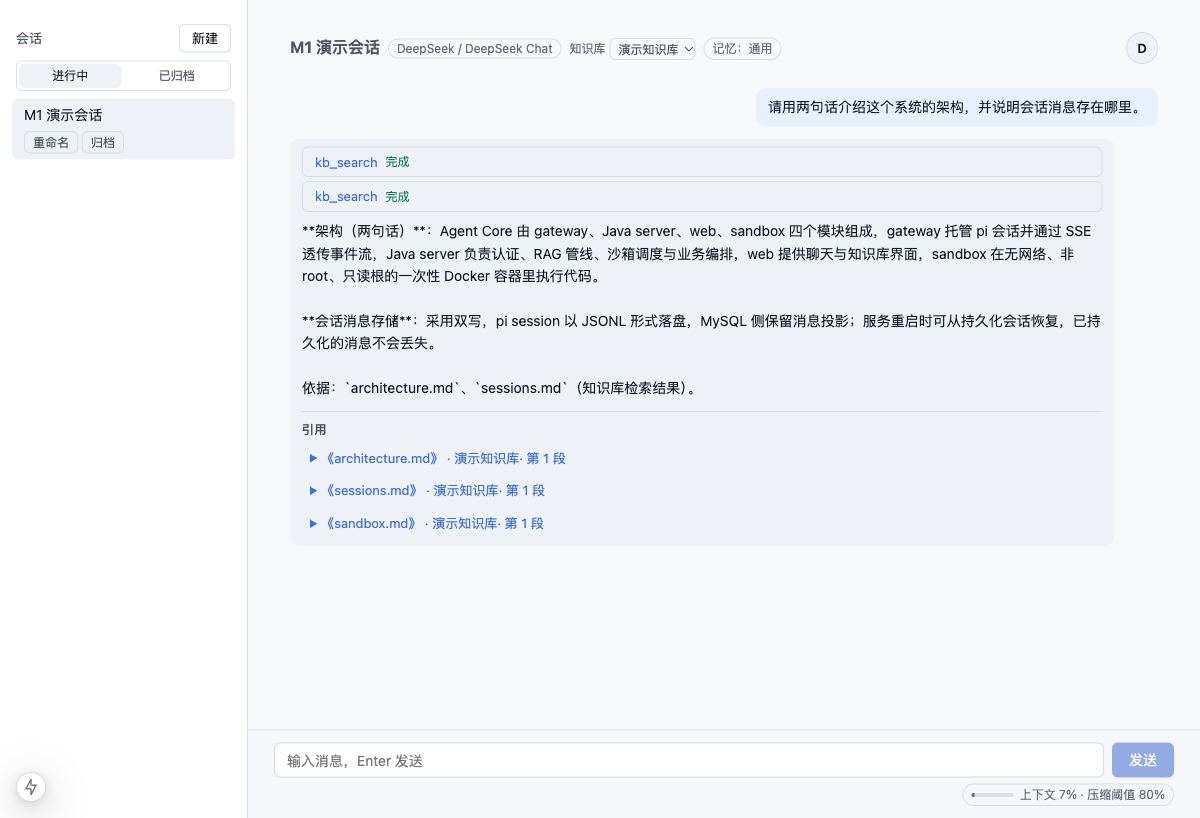
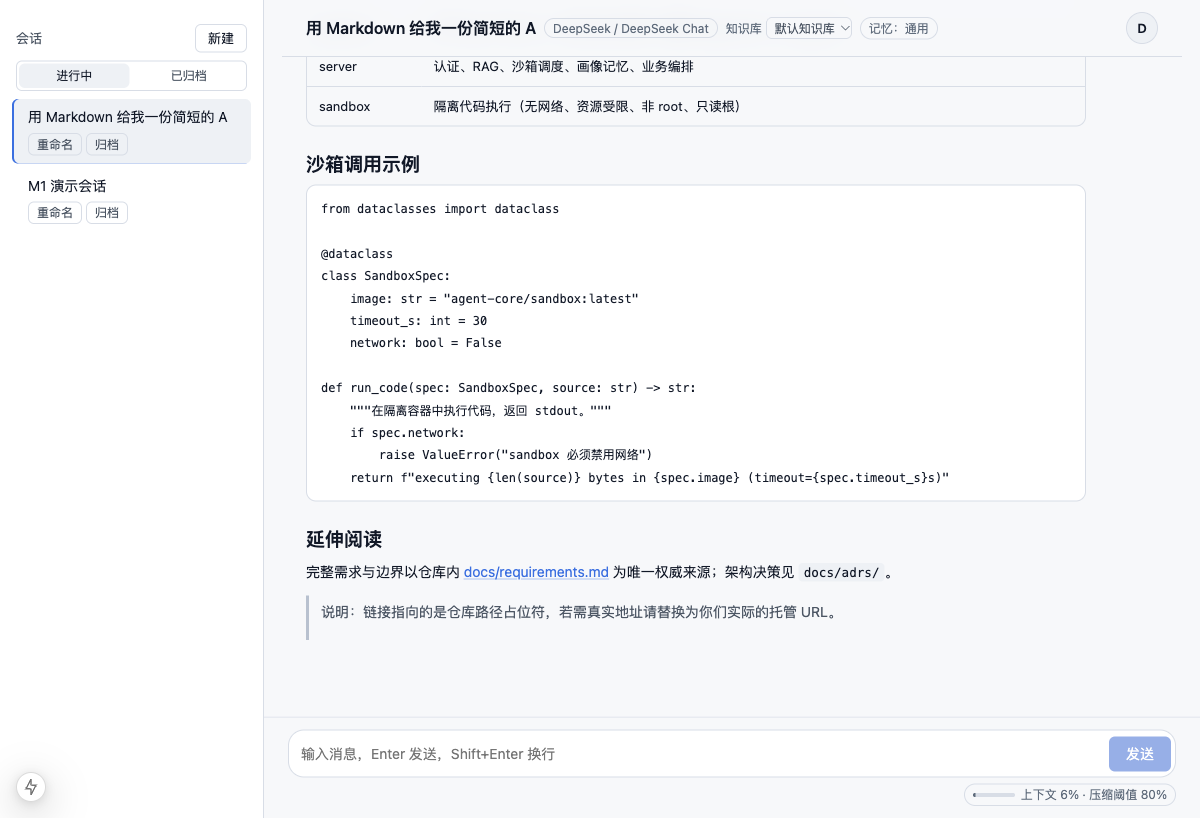
docs: record chat markdown rendering and layout refresh

diff --git a/docs/specs/2026-10-25-chat-markdown-ui.md b/docs/specs/2026-10-25-chat-markdown-ui.md
@@ -1,0 +1,57 @@
+# 聊天界面 Markdown 渲染与排版优化
+
+日期：2026-10-25
+状态：已与用户对齐（Phase 1 完成），待实现
+关联：ADR-0012（设计 token / 对比度门禁）；`web/README.md`（分层规范）
+
+## Problem Statement
+
+助手回复目前以纯文本渲染：Markdown 语法（标题、列表、代码块、表格、链接）原样显示，长回复可读性差；聊天主区的气泡、间距、工具卡片、引用与输入区排版偏拥挤、层级不清，整体观感不像一个成熟产品。用户希望优化排版，并让助手输出正确渲染 Markdown。
+
+## Solution
+
+- 助手消息用 Markdown 渲染（GFM：表格、任务列表、删除线、自动链接），流式过程中实时渲染；用户消息保持纯文本并保留换行。
+- 重做聊天主区视觉：sticky 顶栏、助手消息去气泡化、用户气泡右侧、统一消息间距与字号、工具/引用卡片化、空状态与输入区（自动增高多行输入、Enter 发送 / Shift+Enter 换行）。
+- 只使用现有语义 token，保持深/浅色主题与对比度门禁通过；不引入语法高亮（后续可加）。
+
+## User Stories
+
+1. 作为用户，我希望助手回复中的标题、列表、代码块、表格、链接正确排版，以便快速阅读。
+2. 作为用户，我希望流式输出期间也能看到接近最终的排版，而不是先看到一堆 `**` 和 `-`。
+3. 作为用户，我希望长回复有舒适的行宽、行高与段落间距。
+4. 作为用户，我希望代码块有独立背景、横向滚动与一键复制。
+5. 作为用户，我希望工具调用与引用以紧凑卡片呈现，不打断正文阅读。
+6. 作为用户，我希望输入框支持多行（Shift+Enter 换行），并随内容自动增高。
+7. 作为用户，我希望发送/停止按钮与输入区对齐、聚焦态清晰。
+8. 作为用户，我希望深色/浅色主题下 Markdown 与卡片都有足够对比度。
+9. 作为用户，我希望移动端侧边栏折叠后聊天区仍有合理留白与可读行宽。
+10. 作为维护者，我希望新增依赖精确锁定、样式只用语义 token，并通过现有 token/对比度门禁。
+
+## Implementation Decisions
+
+- 新增 `react-markdown@10.1.0` 与 `remark-gfm@4.0.1`（精确版本）。默认不解析原始 HTML（不引入 `rehype-raw`），链接强制 `target="_blank" rel="noopener noreferrer"`。
+- 仅助手消息走 Markdown；用户消息保持 `white-space: pre-wrap` 纯文本，避免用户输入的多行被折叠。
+- 流式期间实时渲染（react-markdown 对未闭合语法容错）；流式末尾显示光标。
+- 代码块：`pre` 自定义渲染，等宽字体、独立背景、横向滚动、复制按钮（`navigator.clipboard`，失败静默）；不做语法高亮。
+- 表格：外层横向滚动容器，表头使用 surface 背景。
+- 排版：助手消息去掉气泡背景、占满内容列；用户气泡右对齐、圆角不对称；顶栏 sticky + 半透明背景；消息间距加大；工具/引用改为卡片。
+- 输入区：`textarea` 自动增高（上限约 200px），Enter 发送、Shift+Enter 换行，组合输入（输入法）不触发发送；保留现有 `aria-label="消息输入"`。
+- 样式只消费语义 token（ADR-0012）；新增 token（如代码块背景）只加在 `globals.css`。
+- 不做语法高亮、不改设置页/知识库页、不做品牌换肤。
+
+## Testing Decisions
+
+- 门禁：`npm run typecheck`、`npm run build`、`npm run check:tokens`、`npm run check:contrast`。
+- 浏览器验收（Playwright，真实栈）：助手回复中出现标题/列表/代码块/表格/链接且样式生效；复制按钮可用；流式期间渲染不崩；用户多行消息保留换行；停止按钮行为不变；深/浅色主题截图检查。
+- 不新增单元测试框架；该改动的可测面是构建门禁与浏览器行为。
+
+## Out of Scope
+
+- 语法高亮、Markdown 编辑器、富文本输入。
+- 设置页、知识库页、登录页的视觉改版。
+- 全站品牌/配色重设计。
+
+## Further Notes
+
+- react-markdown 的 `components` 映射集中在一个 `MarkdownContent` 组件，便于以后替换渲染器或加高亮。
+- 流式渲染的性能在消息长度可控范围内可接受；若后续长回复出现卡顿，可在 `message_end` 前降级为纯文本。
